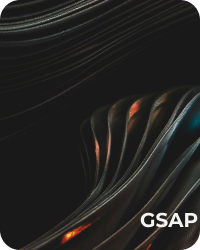
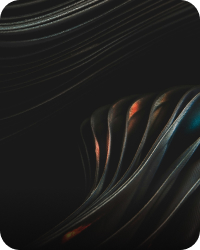
fix tech talks hover

diff --git a/assets/css/TechTalks.min.css b/assets/css/TechTalks.min.css
@@ -1,1 +1,1 @@
-.TechTalkContainer{height:90vh;color:#000;margin:auto;display:grid;grid-template-areas:"top" "middle" "bottom"}.TechTalkContainer .TechTitle{grid-area:top;color:#000;width:50%;margin:auto;font-weight:900;font-size:42px;text-transform:uppercase}.TechTalkContainer .TechDescription{grid-area:middle;width:35%;margin:auto;color:#000;line-height:144%;padding:25px;position:relative}.TechTalkContainer .TechDescription::after{content:"";position:absolute;left:50%;transform:translateX(-50%);bottom:0;width:60%;border-bottom:1px solid #000}.TechTalkContainer .TechTalkDiv{grid-area:bottom;width:80%;height:300px;margin:auto;display:flex;flex-direction:row;flex-wrap:nowrap;justify-content:space-between;gap:20px}.TechTalkContainer .TechTalkDiv .Tech1{background-image:url("/public/Tech_Images_Format.png")}.TechTalkContainer .TechTalkDiv .Tech2{background-image:url("/public/Tech_UX_UI.png")}.TechTalkContainer .TechTalkDiv .Tech3{background-image:url("/public/Tech_Wordpress.png")}.TechTalkContainer .TechTalkDiv .Tech4{background-image:url("/public/Tech_GSAP.jpg")}.TechTalkContainer .TechTalkDiv .Tech5{background-image:url("/public/Tech_Not_Defined.png")}.TechTalkContainer .TechTalkDiv .Tech1,.TechTalkContainer .TechTalkDiv .Tech2,.TechTalkContainer .TechTalkDiv .Tech3,.TechTalkContainer .TechTalkDiv .Tech4,.TechTalkContainer .TechTalkDiv .Tech5{height:250px;width:200px;border-radius:20px;background-size:cover;background-repeat:no-repeat;transition:.3s ease-in-out}.TechTalkContainer .TechTalkDiv .Tech1 a,.TechTalkContainer .TechTalkDiv .Tech2 a,.TechTalkContainer .TechTalkDiv .Tech3 a,.TechTalkContainer .TechTalkDiv .Tech4 a,.TechTalkContainer .TechTalkDiv .Tech5 a{text-decoration:none;margin-top:115px;display:none}.TechTalkContainer .TechTalkDiv .Tech1:hover,.TechTalkContainer .TechTalkDiv .Tech2:hover,.TechTalkContainer .TechTalkDiv .Tech3:hover,.TechTalkContainer .TechTalkDiv .Tech4:hover,.TechTalkContainer .TechTalkDiv .Tech5:hover{cursor:pointer;background-color:#000}.TechTalkContainer .TechTalkDiv .Tech1:hover a,.TechTalkContainer .TechTalkDiv .Tech2:hover a,.TechTalkContainer .TechTalkDiv .Tech3:hover a,.TechTalkContainer .TechTalkDiv .Tech4:hover a,.TechTalkContainer .TechTalkDiv .Tech5:hover a{display:block}/*# sourceMappingURL=TechTalks.min.css.map */
+.TechTalkContainer{height:90vh;color:#000;margin:auto;display:grid;grid-template-areas:"top" "middle" "bottom"}.TechTalkContainer .TechTitle{grid-area:top;color:#000;width:50%;margin:auto;font-weight:900;font-size:42px;text-transform:uppercase}.TechTalkContainer .TechDescription{grid-area:middle;width:35%;margin:auto;color:#000;line-height:144%;padding:25px;position:relative}.TechTalkContainer .TechDescription::after{content:"";position:absolute;left:50%;transform:translateX(-50%);bottom:0;width:60%;border-bottom:1px solid #000}.TechTalkContainer .TechTalkDiv{grid-area:bottom;width:80%;height:300px;margin:auto;display:flex;flex-direction:row;flex-wrap:nowrap;justify-content:space-between;gap:20px}.TechTalkContainer .TechTalkDiv .Tech1{background-image:url("/public/Tech_Images_Format.jpg")}.TechTalkContainer .TechTalkDiv .Tech2{background-image:url("/public/Tech_UX_UI.jpg")}.TechTalkContainer .TechTalkDiv .Tech3{background-image:url("/public/Tech_Wordpress.jpg")}.TechTalkContainer .TechTalkDiv .Tech4{background-image:url("/public/Tech_GSAP.jpg")}.TechTalkContainer .TechTalkDiv .Tech5{background-image:url("/public/Tech_Not_Defined.jpg")}.TechTalkContainer .TechTalkDiv .Tech1,.TechTalkContainer .TechTalkDiv .Tech2,.TechTalkContainer .TechTalkDiv .Tech3,.TechTalkContainer .TechTalkDiv .Tech4,.TechTalkContainer .TechTalkDiv .Tech5{height:250px;width:200px;border-radius:20px;background-size:cover;background-repeat:no-repeat;transition:.3s ease-in-out;position:relative}.TechTalkContainer .TechTalkDiv .Tech1 .descTech,.TechTalkContainer .TechTalkDiv .Tech2 .descTech,.TechTalkContainer .TechTalkDiv .Tech3 .descTech,.TechTalkContainer .TechTalkDiv .Tech4 .descTech,.TechTalkContainer .TechTalkDiv .Tech5 .descTech{text-transform:uppercase;font-weight:bold;position:absolute;bottom:5px;right:15px}.TechTalkContainer .TechTalkDiv .Tech1 .hoverText,.TechTalkContainer .TechTalkDiv .Tech2 .hoverText,.TechTalkContainer .TechTalkDiv .Tech3 .hoverText,.TechTalkContainer .TechTalkDiv .Tech4 .hoverText,.TechTalkContainer .TechTalkDiv .Tech5 .hoverText{display:none}.TechTalkContainer .TechTalkDiv .Tech1:hover,.TechTalkContainer .TechTalkDiv .Tech2:hover,.TechTalkContainer .TechTalkDiv .Tech3:hover,.TechTalkContainer .TechTalkDiv .Tech4:hover,.TechTalkContainer .TechTalkDiv .Tech5:hover{cursor:pointer;scale:1.03;filter:brightness(0.5);text-decoration:none;display:flex;justify-content:center;align-items:center}.TechTalkContainer .TechTalkDiv .Tech1:hover .hoverText,.TechTalkContainer .TechTalkDiv .Tech2:hover .hoverText,.TechTalkContainer .TechTalkDiv .Tech3:hover .hoverText,.TechTalkContainer .TechTalkDiv .Tech4:hover .hoverText,.TechTalkContainer .TechTalkDiv .Tech5:hover .hoverText{display:block}.TechTalkContainer .TechTalkDiv .Tech1:hover .descTech,.TechTalkContainer .TechTalkDiv .Tech2:hover .descTech,.TechTalkContainer .TechTalkDiv .Tech3:hover .descTech,.TechTalkContainer .TechTalkDiv .Tech4:hover .descTech,.TechTalkContainer .TechTalkDiv .Tech5:hover .descTech{display:none}/*# sourceMappingURL=TechTalks.min.css.map */

diff --git a/assets/css/TechTalks.css b/assets/css/TechTalks.css
@@ -44,19 +44,19 @@
   gap: 20px;
 }
 .TechTalkContainer .TechTalkDiv .Tech1 {
-  background-image: url("/public/Tech_Images_Format.png");
+  background-image: url("/public/Tech_Images_Format.jpg");
 }
 .TechTalkContainer .TechTalkDiv .Tech2 {
-  background-image: url("/public/Tech_UX_UI.png");
+  background-image: url("/public/Tech_UX_UI.jpg");
 }
 .TechTalkContainer .TechTalkDiv .Tech3 {
-  background-image: url("/public/Tech_Wordpress.png");
+  background-image: url("/public/Tech_Wordpress.jpg");
 }
 .TechTalkContainer .TechTalkDiv .Tech4 {
   background-image: url("/public/Tech_GSAP.jpg");
 }
 .TechTalkContainer .TechTalkDiv .Tech5 {
-  background-image: url("/public/Tech_Not_Defined.png");
+  background-image: url("/public/Tech_Not_Defined.jpg");
 }
 .TechTalkContainer .TechTalkDiv .Tech1, .TechTalkContainer .TechTalkDiv .Tech2, .TechTalkContainer .TechTalkDiv .Tech3, .TechTalkContainer .TechTalkDiv .Tech4, .TechTalkContainer .TechTalkDiv .Tech5 {
   height: 250px;
@@ -65,16 +65,30 @@
   background-size: cover;
   background-repeat: no-repeat;
   transition: 0.3s ease-in-out;
+  position: relative;
 }
-.TechTalkContainer .TechTalkDiv .Tech1 a, .TechTalkContainer .TechTalkDiv .Tech2 a, .TechTalkContainer .TechTalkDiv .Tech3 a, .TechTalkContainer .TechTalkDiv .Tech4 a, .TechTalkContainer .TechTalkDiv .Tech5 a {
-  text-decoration: none;
-  margin-top: 115px;
+.TechTalkContainer .TechTalkDiv .Tech1 .descTech, .TechTalkContainer .TechTalkDiv .Tech2 .descTech, .TechTalkContainer .TechTalkDiv .Tech3 .descTech, .TechTalkContainer .TechTalkDiv .Tech4 .descTech, .TechTalkContainer .TechTalkDiv .Tech5 .descTech {
+  text-transform: uppercase;
+  font-weight: bold;
+  position: absolute;
+  bottom: 5px;
+  right: 15px;
+}
+.TechTalkContainer .TechTalkDiv .Tech1 .hoverText, .TechTalkContainer .TechTalkDiv .Tech2 .hoverText, .TechTalkContainer .TechTalkDiv .Tech3 .hoverText, .TechTalkContainer .TechTalkDiv .Tech4 .hoverText, .TechTalkContainer .TechTalkDiv .Tech5 .hoverText {
   display: none;
 }
 .TechTalkContainer .TechTalkDiv .Tech1:hover, .TechTalkContainer .TechTalkDiv .Tech2:hover, .TechTalkContainer .TechTalkDiv .Tech3:hover, .TechTalkContainer .TechTalkDiv .Tech4:hover, .TechTalkContainer .TechTalkDiv .Tech5:hover {
   cursor: pointer;
-  background-color: black;
+  scale: 1.03;
+  filter: brightness(0.5);
+  text-decoration: none;
+  display: flex;
+  justify-content: center;
+  align-items: center;
 }
-.TechTalkContainer .TechTalkDiv .Tech1:hover a, .TechTalkContainer .TechTalkDiv .Tech2:hover a, .TechTalkContainer .TechTalkDiv .Tech3:hover a, .TechTalkContainer .TechTalkDiv .Tech4:hover a, .TechTalkContainer .TechTalkDiv .Tech5:hover a {
+.TechTalkContainer .TechTalkDiv .Tech1:hover .hoverText, .TechTalkContainer .TechTalkDiv .Tech2:hover .hoverText, .TechTalkContainer .TechTalkDiv .Tech3:hover .hoverText, .TechTalkContainer .TechTalkDiv .Tech4:hover .hoverText, .TechTalkContainer .TechTalkDiv .Tech5:hover .hoverText {
   display: block;
+}
+.TechTalkContainer .TechTalkDiv .Tech1:hover .descTech, .TechTalkContainer .TechTalkDiv .Tech2:hover .descTech, .TechTalkContainer .TechTalkDiv .Tech3:hover .descTech, .TechTalkContainer .TechTalkDiv .Tech4:hover .descTech, .TechTalkContainer .TechTalkDiv .Tech5:hover .descTech {
+  display: none;
 }/*# sourceMappingURL=TechTalks.css.map */

diff --git a/src/component/TechTalks.jsx b/src/component/TechTalks.jsx
@@ -11,16 +11,33 @@ const TechTalks = () => {
       <p className='TechDescription'>During my training at BeCode, I had the opportunity to present several "tech talks." The goal of these brief presentations, lasting about ten minutes each, is to promote awareness and encourage technological exploration. <br /> Here are the 5 tech talks that I have presented, happy reading!
       </p>
       <div className='TechTalkDiv'>
-            <a href={Tech1} without rel="noopener noreferrer" target='_blank'><div className='Tech1'>Open</div></a>
         
-            <a href={Tech2} rel="noopener noreferrer" target='_blank'><div className='Tech2'>Open</div></a> {/*rel="noopener noreferrer" pour eviter de changer l'url vu que j'utilise react rooter dom ça merde sinon*/}
+        <a className='Tech1'href={Tech1} without rel="noopener noreferrer" target='_blank'>
+          <p className='descTech'>images format</p>
+          <p className='hoverText'>Open</p>
+        </a>
 
-            <a href={Tech3} rel="noopener noreferrer" target='_blank'><div className='Tech3'>Open</div></a>
+        <a className='Tech2'href={Tech2} without rel="noopener noreferrer" target='_blank'>
+          <p className='descTech'>ui/ux design</p>
+          <p className='hoverText'>Open</p>
 
-            <a href={Tech4} rel="noopener noreferrer" target='_blank'><div className='Tech4'>Open</div></a>
+        </a>
+        <a className='Tech3'href={Tech3} without rel="noopener noreferrer" target='_blank'>
+          <p className='descTech'>wordpress</p>
+          <p className='hoverText'>Open</p>
 
-            <a href="" target='_blank'><div className='Tech5'>Open</div></a>
-  
+        </a>
+        <a className='Tech4'href={Tech4} without rel="noopener noreferrer" target='_blank'>
+          <p className='descTech'>gsap</p>
+          <p className='hoverText'>Open</p>
+
+        </a>
+        <a className='Tech5'href="" without rel="noopener noreferrer" target='_blank'>
+          <p className='descTech'>not defined</p>
+          <p className='hoverText'>Open</p>
+
+        </a>
+
       </div>
     </div>
   )

diff --git a/src/component style/TechTalks.scss b/src/component style/TechTalks.scss
@@ -49,20 +49,20 @@
         justify-content: space-between;
         gap: 20px;
         .Tech1{
-            background-image: url("/public/Tech_Images_Format.png");
+            background-image: url("/public/Tech_Images_Format.jpg");
             
         }
         .Tech2{
-            background-image: url("/public/Tech_UX_UI.png");
+            background-image: url("/public/Tech_UX_UI.jpg");
         }
         .Tech3{
-            background-image: url("/public/Tech_Wordpress.png");
+            background-image: url("/public/Tech_Wordpress.jpg");
         }
         .Tech4{
             background-image: url("/public/Tech_GSAP.jpg");
         }
         .Tech5{
-            background-image: url("/public/Tech_Not_Defined.png");
+            background-image: url("/public/Tech_Not_Defined.jpg");
         }
         .Tech1, .Tech2, .Tech3, .Tech4,.Tech5{
             height: 250px;
@@ -71,18 +71,36 @@
             background-size: cover;
             background-repeat: no-repeat;
             transition:  0.3s ease-in-out;
-            a {
-                text-decoration: none;
-                margin-top: 115px;
+            position: relative;
+            .descTech{
+                text-transform: uppercase;
+                font-weight: bold;
+                position: absolute;
+                bottom: 5px;
+                right: 15px;
+            }
+            
+            .hoverText{
                 display: none;
             }
             &:hover {
                 cursor: pointer;
-                background-color: black; 
-                a {
-                    display: block; 
+                scale: 1.03;
+                filter: brightness(0.5);                
+                text-decoration: none;  
+                display: flex;
+                justify-content: center;
+                align-items: center;
+                .hoverText{
+                    display: block;
+                }
+                .descTech{
+                    display: none;
                 }
             }
+            
+
+        
         }
     }
     
